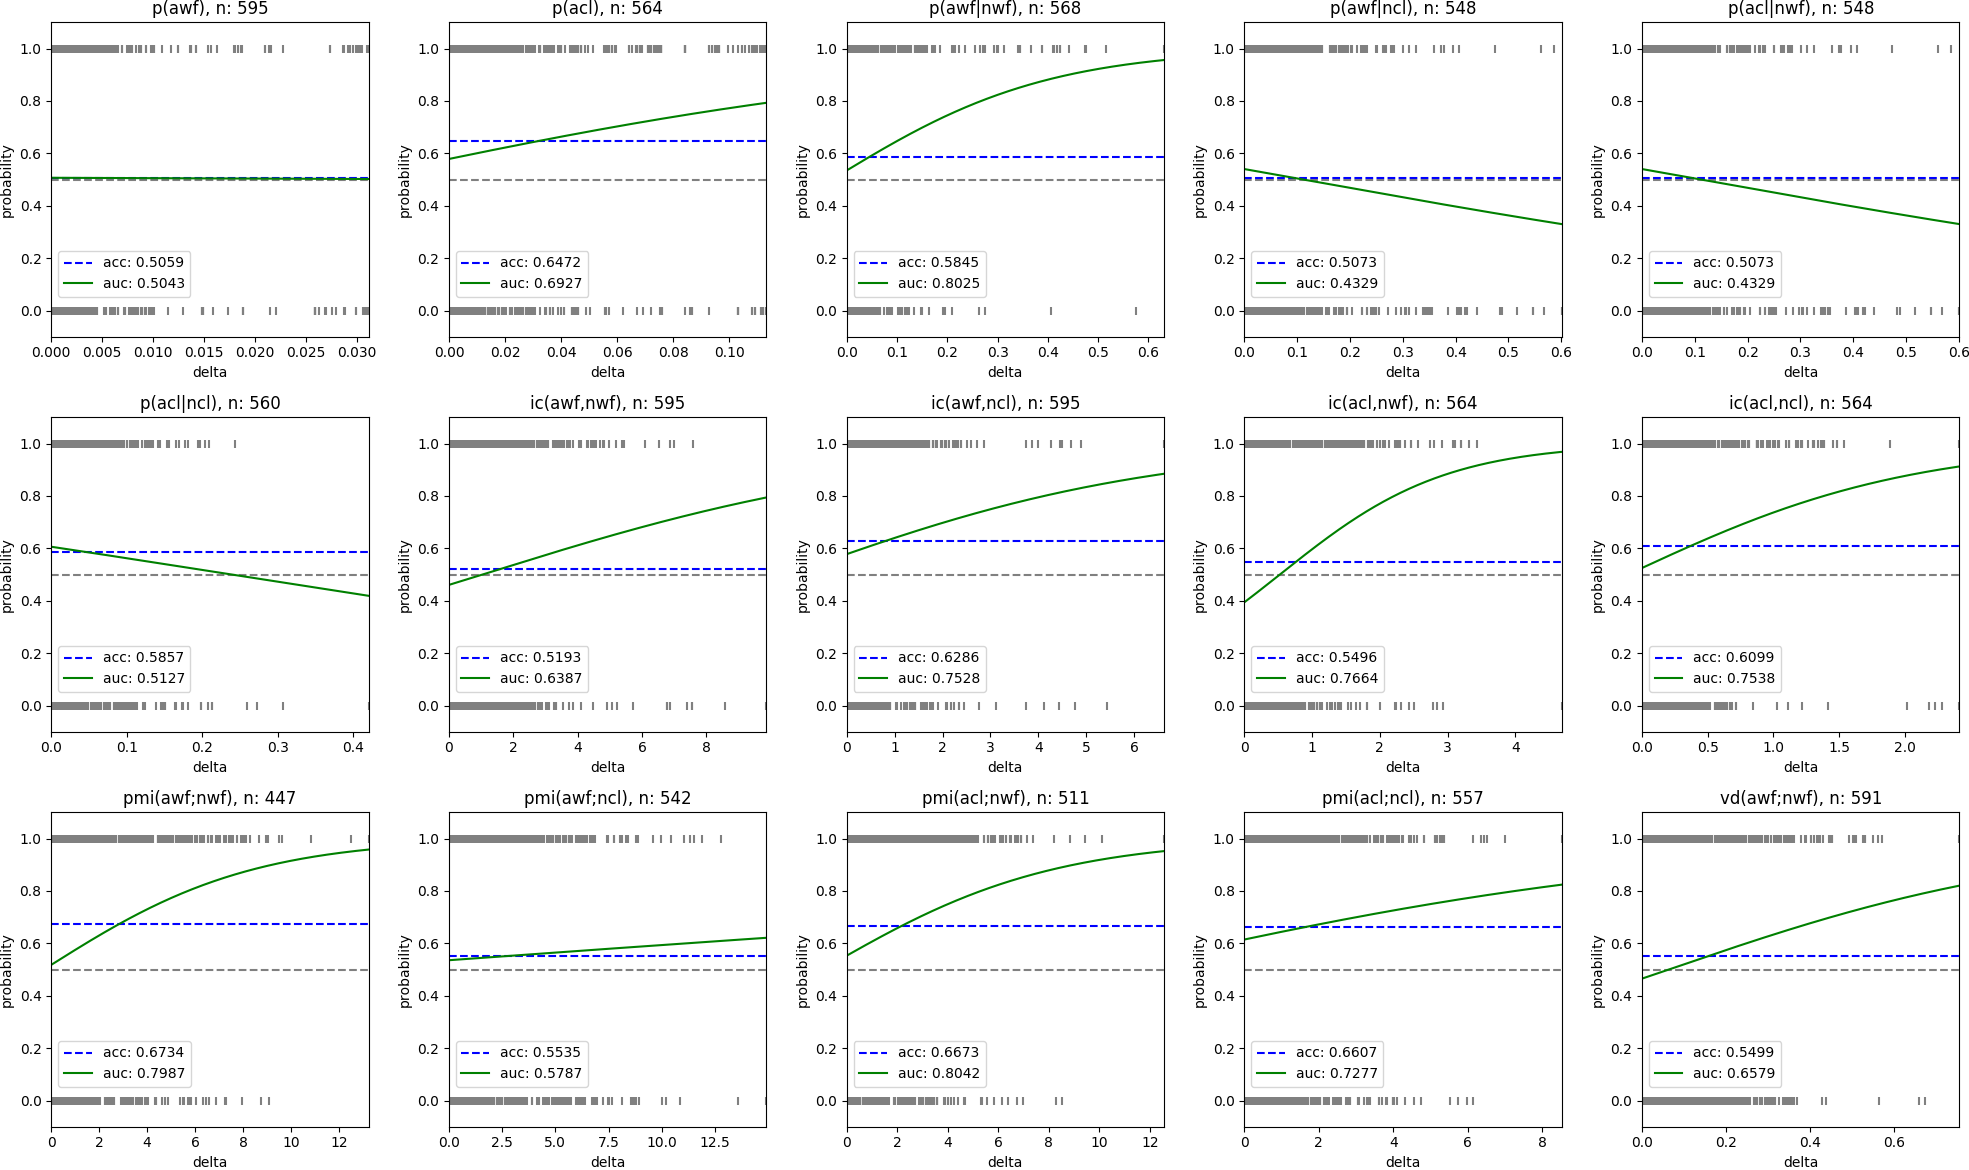
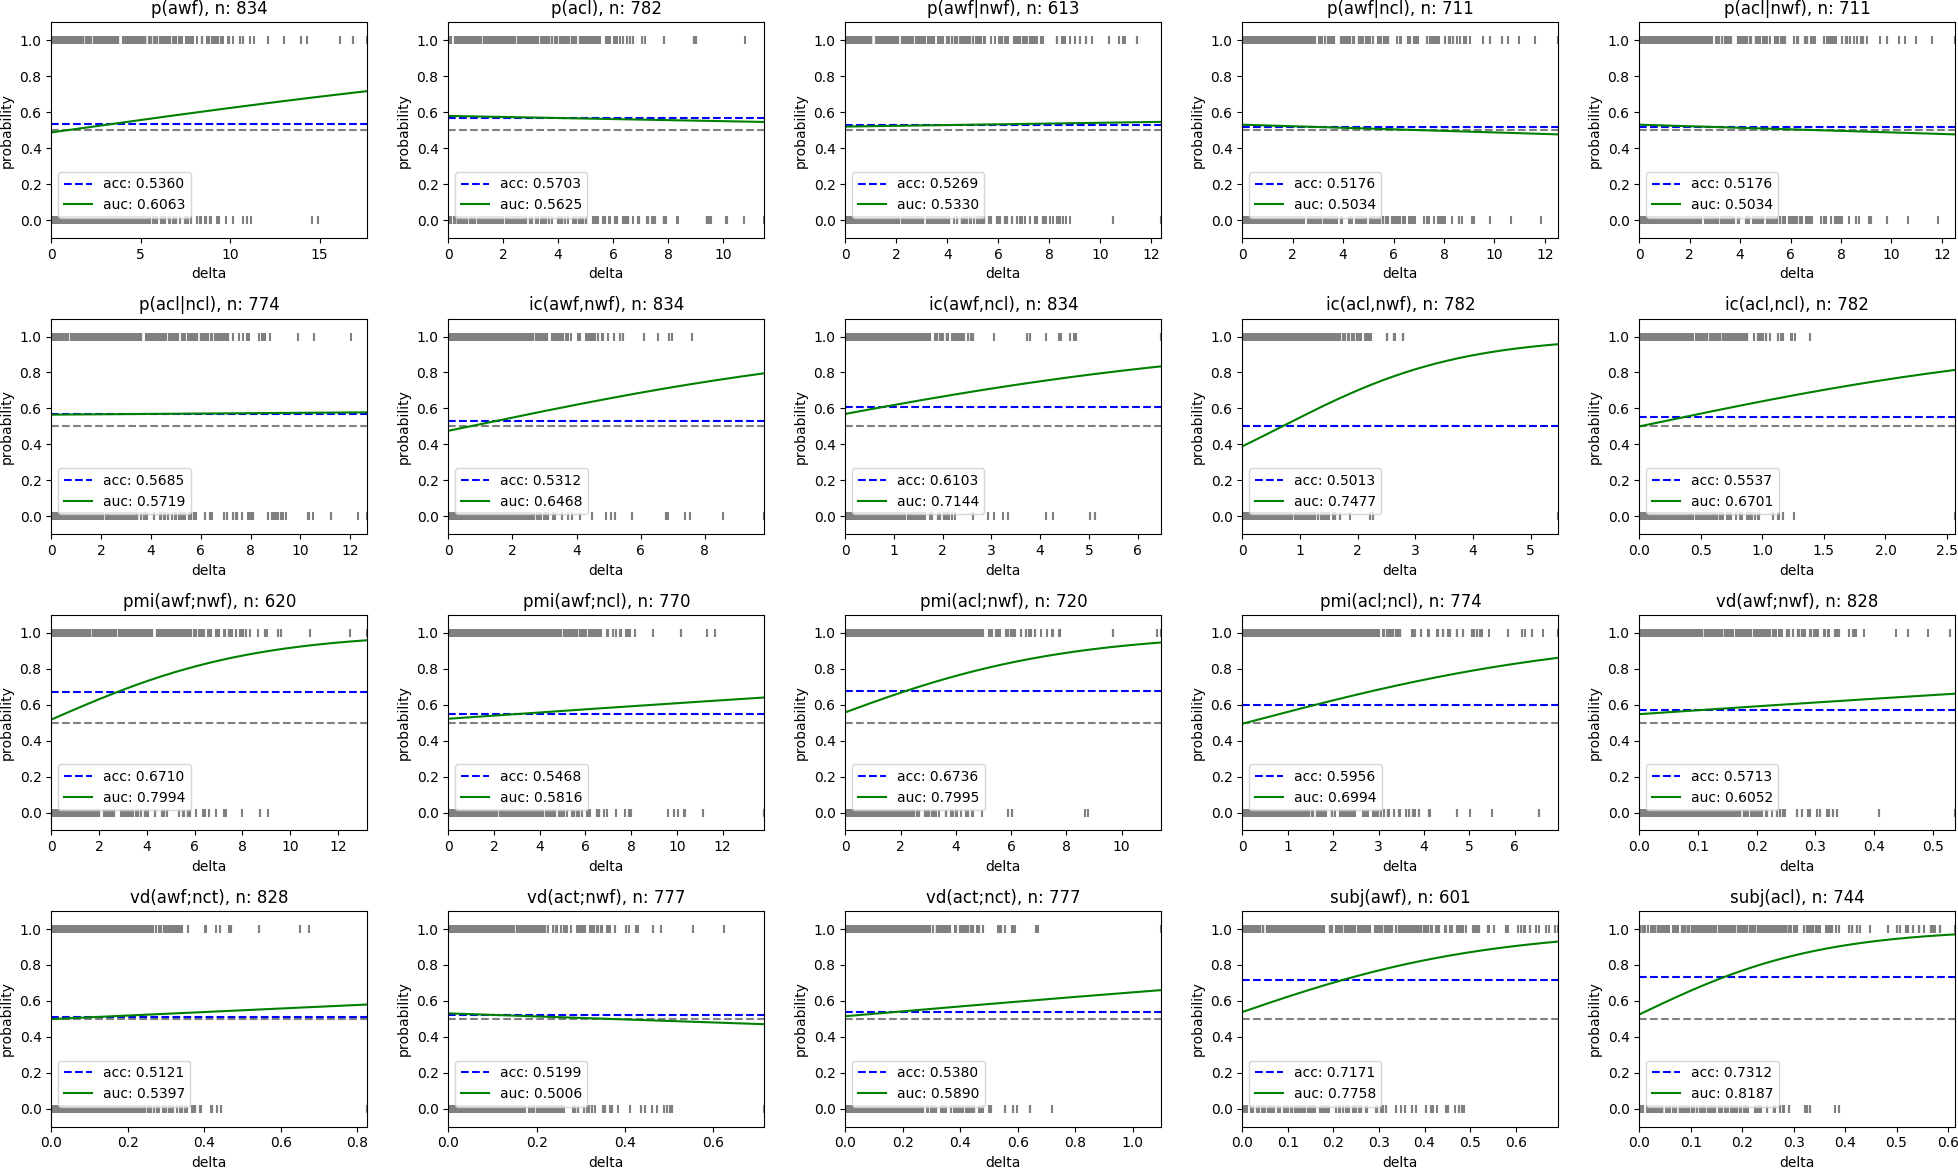
handle subjective ratings and vector-cluster dist

diff --git a/measures/score_adj_pairs.py b/measures/score_adj_pairs.py
@@ -51,6 +51,10 @@ def load_vectors(filename):
     df = pd.read_csv(filename, sep='["]* ["]*', header=None, error_bad_lines=False, engine='python')
     return df
 
+def load_subj(filename):
+    df = pd.read_csv(filename, sep="\t")
+    return df
+
 def calc_pmi(pxy, px):
     #return math.log(pxy/px,2)
     return pxy-px
@@ -65,7 +69,7 @@ def get_clusters(words, vectors, k):
     centroids = {}
     for i, word in enumerate(words):
         clusters[word] = float(labels[i])
-        centroids[word] = centers[i]
+        centroids[word] = centers[labels[i]]
 
     return clusters, centroids
 
@@ -96,15 +100,22 @@ if __name__ == '__main__':
     parser.add_argument('vectors', type=str, help='GloVe file containing word vectors')
     parser.add_argument('pairs', type=str, help='file containing [count adj noun] pairs')
     parser.add_argument('triples', type=str, help='file containing [count adj adj noun] triples')
+    parser.add_argument('subj', type=str, help='file containing [adj subj] subjectivity ratings')
     args = parser.parse_args()
 
     print("loading triples data from " + args.triples + " ...")
     triples = load_triples(args.triples)
 
+    print("loading subjectivities ...")
+    subjectivities = load_subj(args.subj).set_index('predicate')
+    subj = subjectivities.to_dict()['response']
+    
     pickle_file = "data.pkl"
     pairs = None
     ncls = None
     acls = None
+    nctrs = None
+    actrs = None
     nwf_vectors = None
     awf_vectors = None
     nwfs = None
@@ -112,7 +123,7 @@ if __name__ == '__main__':
 
     if pickle_file in os.listdir():
         print("loading pairs data from " + pickle_file + " ...")
-        [pairs, ncls, acls, nwf_vectors, awf_vectors, nwfs, awfs] = load_from_pickle(pickle_file, [pairs, ncls, acls, nwf_vectors, awf_vectors, nwfs, awfs])
+        [pairs, ncls, acls, nctrs, actrs, nwf_vectors, awf_vectors, nwfs, awfs] = load_from_pickle(pickle_file, [pairs, ncls, acls, nctrs, actrs, nwf_vectors, awf_vectors, nwfs, awfs])
     else:
         print("loading pairs data from " + args.pairs + " ...")
         pairs = load_pairs(args.pairs)
@@ -124,7 +135,7 @@ if __name__ == '__main__':
         nwf_vectors, awf_vectors, nwfs, awfs = extract_vectors(vectors, pairs)
 
         print("clustering adjs ...")
-        acls, actrs = get_clusters(awfs, awf_vectors, 300)
+        acls, actrs = get_clusters(awfs, awf_vectors, 200)
         pairs['acl'] = pairs['awf'].map(acls).astype('str')
 
         print("clustering nouns ...")
@@ -138,7 +149,14 @@ if __name__ == '__main__':
         pairs['acl_ncl'] = pairs['acl'] + "_" + pairs['ncl']
 
         print("saving data to " + pickle_file + " ...")
-        save_to_pickle(pickle_file, [pairs, ncls, acls, nwf_vectors, awf_vectors, nwfs, awfs])
+        save_to_pickle(pickle_file, [pairs, ncls, acls, nctrs, actrs, nwf_vectors, awf_vectors, nwfs, awfs])
+
+
+    print("calculating cluster subjectivities ...")
+    subj_clusters = pd.merge(subjectivities, pd.DataFrame.from_dict(acls, orient='index'), how='inner', left_index=True, right_index=True).reset_index()
+    subj_clusters.columns = ['predicate', 'response', 'cluster']
+    subj_clusters = pd.pivot_table(subj_clusters[['response', 'cluster']], index=['cluster'], values=['response', 'cluster'], aggfunc=np.average).to_dict()['response']
+
     
     print("calculating probabilities ...")
     print(" -awfs")
@@ -218,9 +236,11 @@ if __name__ == '__main__':
     print(" -acl_ncl")
     acl_ncl_ents = ic(acl_to_ncls)
 
+    
+
     print("printing output ...")
     outfile = open("results.csv", 'w')
-    outfile.write("id,idx,count,awf,nwf,acl,ncl,p_awf,p_acl,p_nwf,p_ncl,p_awf_nwf,p_awf_ncl,p_acl_nwf,p_acl_ncl,ic_awf_nwf,ic_awf_ncl,ic_acl_nwf,ic_acl_ncl,pmi_awf_nwf,pmi_awf_ncl,pmi_acl_nwf,pmi_acl_ncl,vd_awf_nwf,vd_awf_nct,vd_act_nwf,vd_act_nct\n")
+    outfile.write("id,idx,count,awf,nwf,acl,ncl,p_awf,p_acl,p_nwf,p_ncl,p_awf_nwf,p_awf_ncl,p_acl_nwf,p_acl_ncl,ic_awf_nwf,ic_awf_ncl,ic_acl_nwf,ic_acl_ncl,pmi_awf_nwf,pmi_awf_ncl,pmi_acl_nwf,pmi_acl_ncl,vd_awf_nwf,vd_awf_nct,vd_act_nwf,vd_act_nct,s_awf,s_acl\n")
     n = len(triples)
     for i, triple in enumerate(triples):
         print_progress(i+1, n)
@@ -338,21 +358,31 @@ if __name__ == '__main__':
             except:
                 pass
             try:
-                vd_awf_nct = cosine(awf_vectors[awfs.index(awf)], nctrs[nwfs.index(nwf)])
+                vd_awf_nct = cosine(awf_vectors[awfs.index(awf)], nctrs[nwf])
             except:
                 pass
             try:
-                vd_act_nwf = cosine(actrs[awfs.index(awf)], nwf_vectors[nwfs.index(nwf)])
+                vd_act_nwf = cosine(actrs[awf], nwf_vectors[nwfs.index(nwf)])
             except:
                 pass
             try:
-                vd_act_nct = cosine(actrs[awfs.index(awf)], nctrs[nwfs.index(nwf)])
+                vd_act_nct = cosine(actrs[awf], nctrs[nwf])
             except:
                 pass            
             
+            # subjectivity
+            s_awf = None
+            s_acl = None
+            try:
+                s_awf = subj[awf]
+            except:
+                pass
+            try:
+                s_acl = subj_clusters[float(acl)]
+            except:
+                pass
 
-
-            outfile.write(str(i) + "," + str(j) + "," + str(triple[0]) + "," + awf + "," + nwf + "," + str(acl) + "," + str(ncl) + "," + str(p_awf) + "," + str(p_acl) + "," + str(p_nwf) + "," + str(p_ncl) + "," + str(p_awf_nwf) + "," + str(p_awf_ncl) + "," + str(p_acl_nwf) + "," + str(p_acl_ncl) + "," + str(ic_awf_nwf) + "," + str(ic_awf_ncl) + "," + str(ic_acl_nwf) + "," + str(ic_acl_ncl) + "," + str(pmi_awf_nwf) + "," + str(pmi_awf_ncl) + "," + str(pmi_acl_nwf) + "," + str(pmi_acl_ncl) + "," + str(vd_awf_nwf) + "," + str(vd_awf_nct) + "," + str(vd_act_nwf) + "," + str(vd_act_nct) + "\n")
+            outfile.write(str(i) + "," + str(j) + "," + str(triple[0]) + "," + awf + "," + nwf + "," + str(acl) + "," + str(ncl) + "," + str(p_awf) + "," + str(p_acl) + "," + str(p_nwf) + "," + str(p_ncl) + "," + str(p_awf_nwf) + "," + str(p_awf_ncl) + "," + str(p_acl_nwf) + "," + str(p_acl_ncl) + "," + str(ic_awf_nwf) + "," + str(ic_awf_ncl) + "," + str(ic_acl_nwf) + "," + str(ic_acl_ncl) + "," + str(pmi_awf_nwf) + "," + str(pmi_awf_ncl) + "," + str(pmi_acl_nwf) + "," + str(pmi_acl_ncl) + "," + str(vd_awf_nwf) + "," + str(vd_awf_nct) + "," + str(vd_act_nwf) + "," + str(vd_act_nct) + "," + str(s_awf) + "," + str(s_acl) + "\n")
                 
     outfile.close()
     
